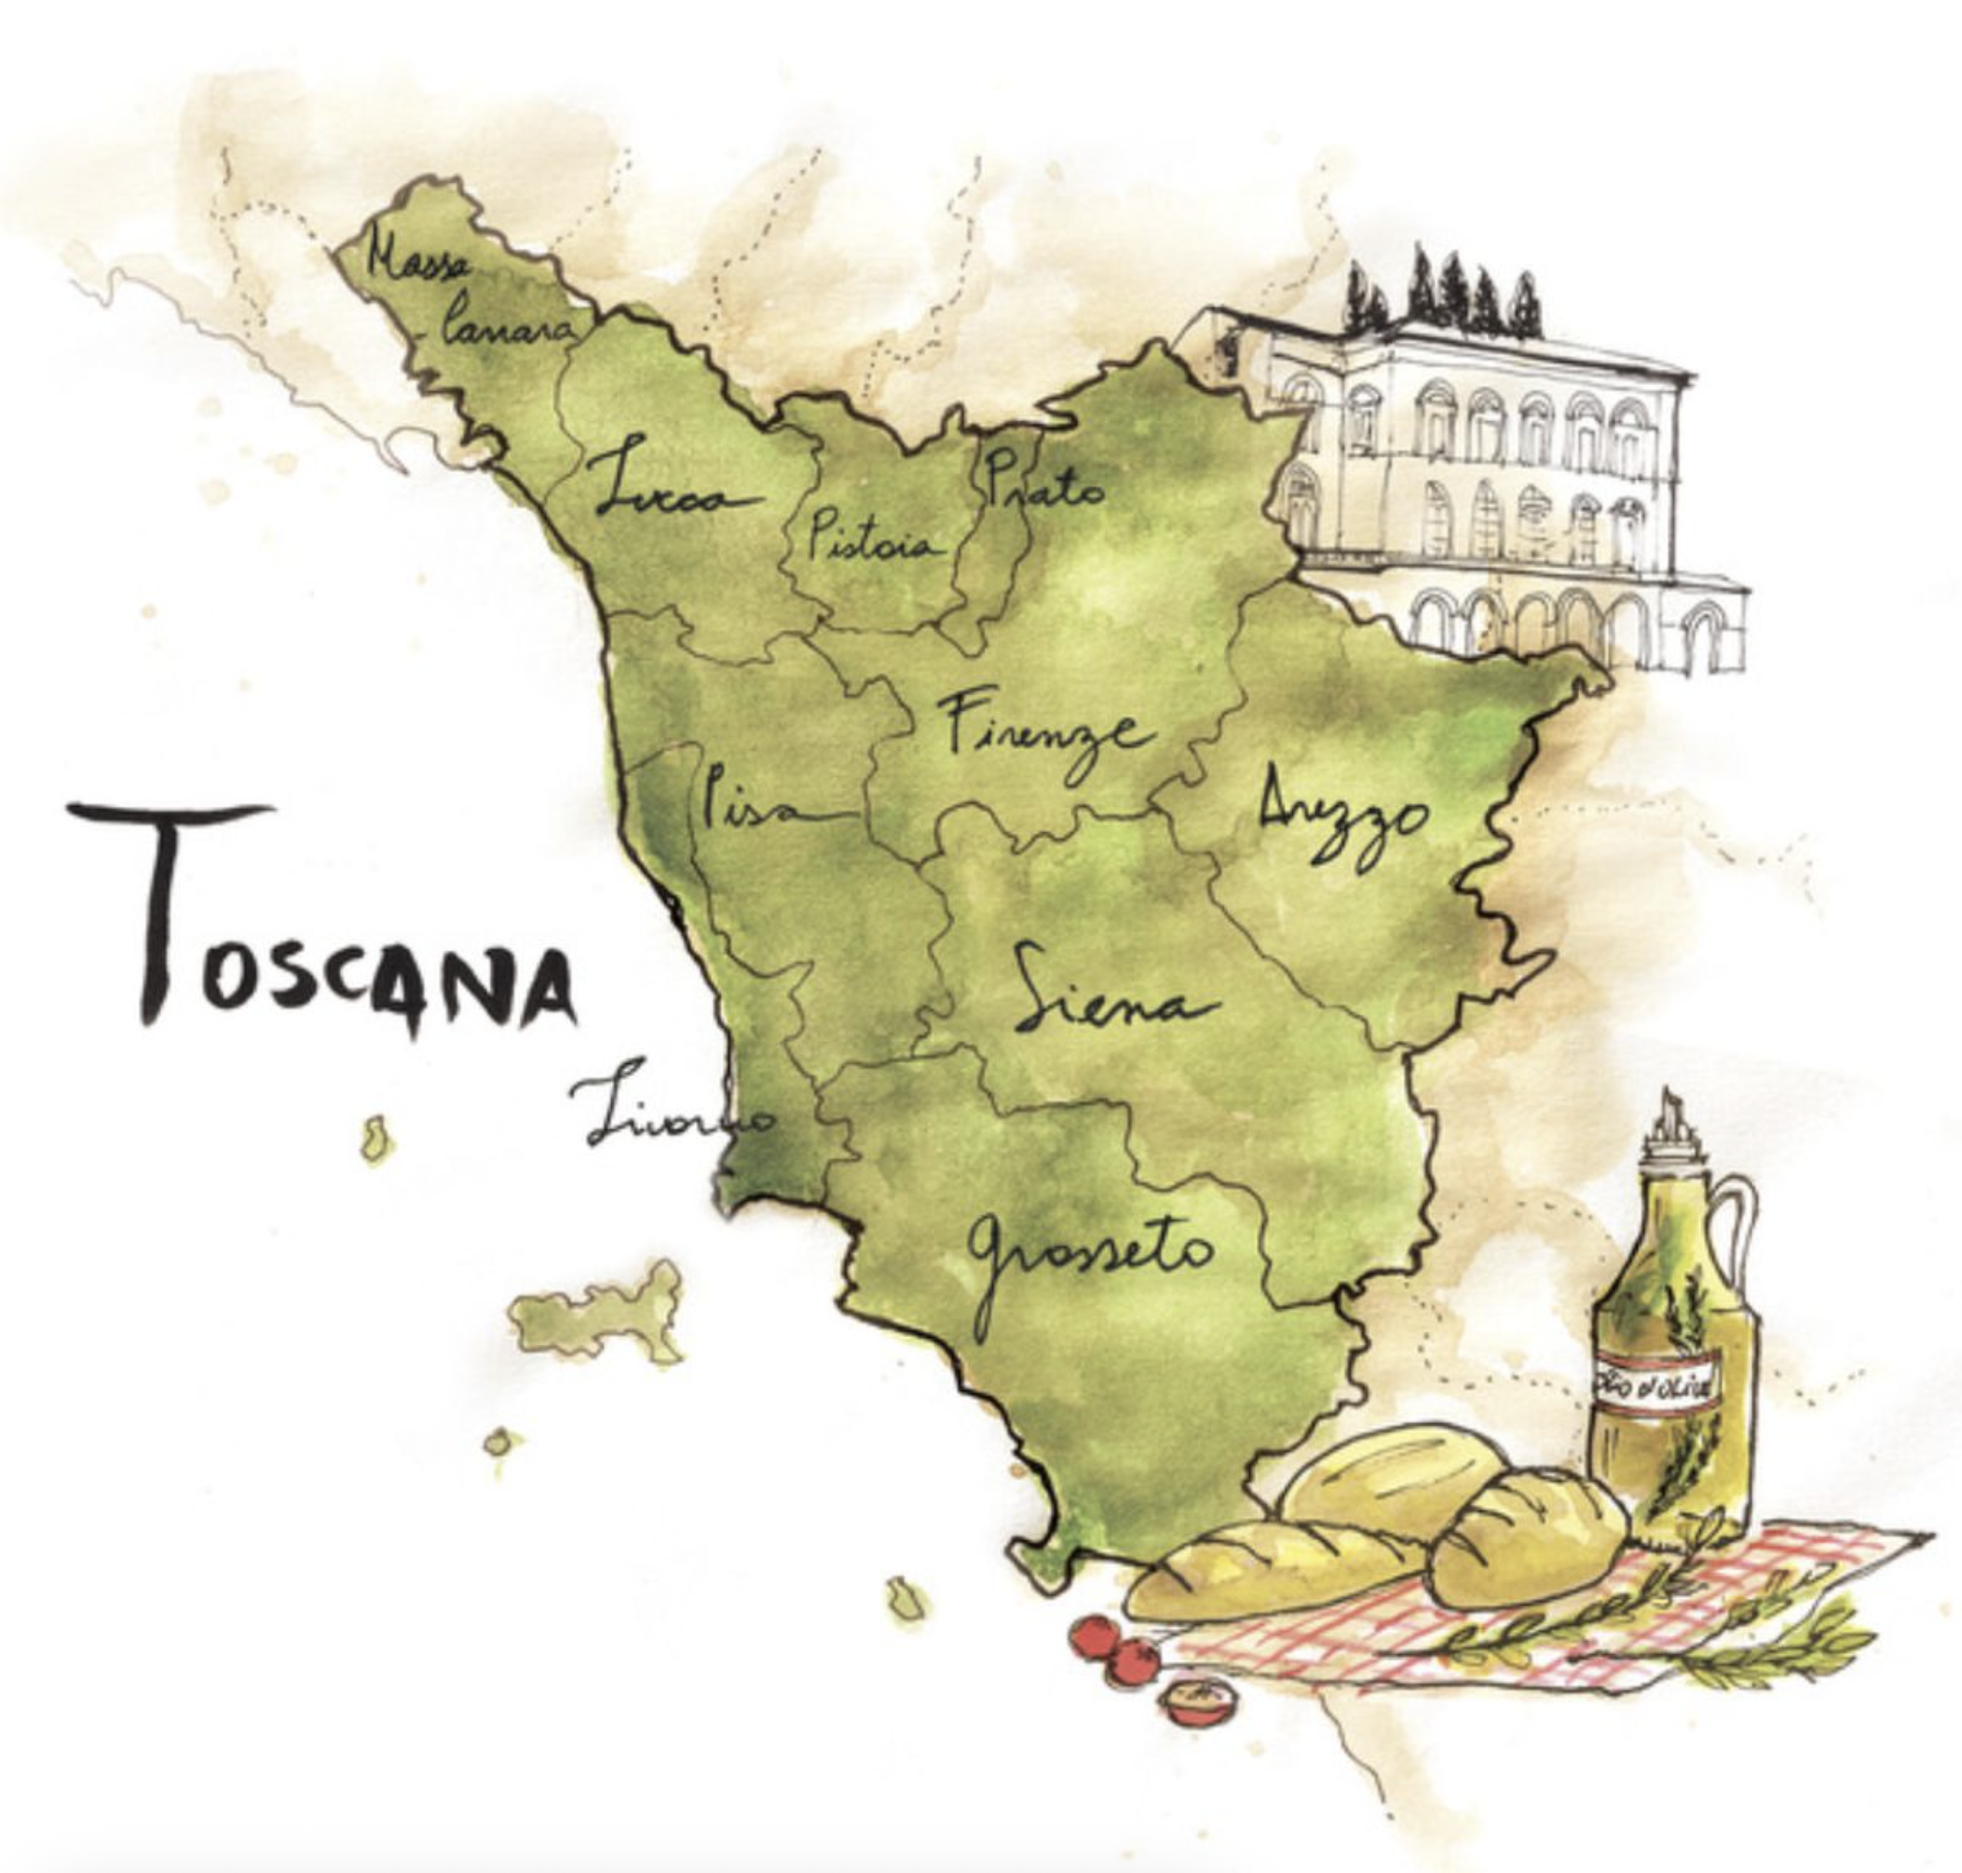
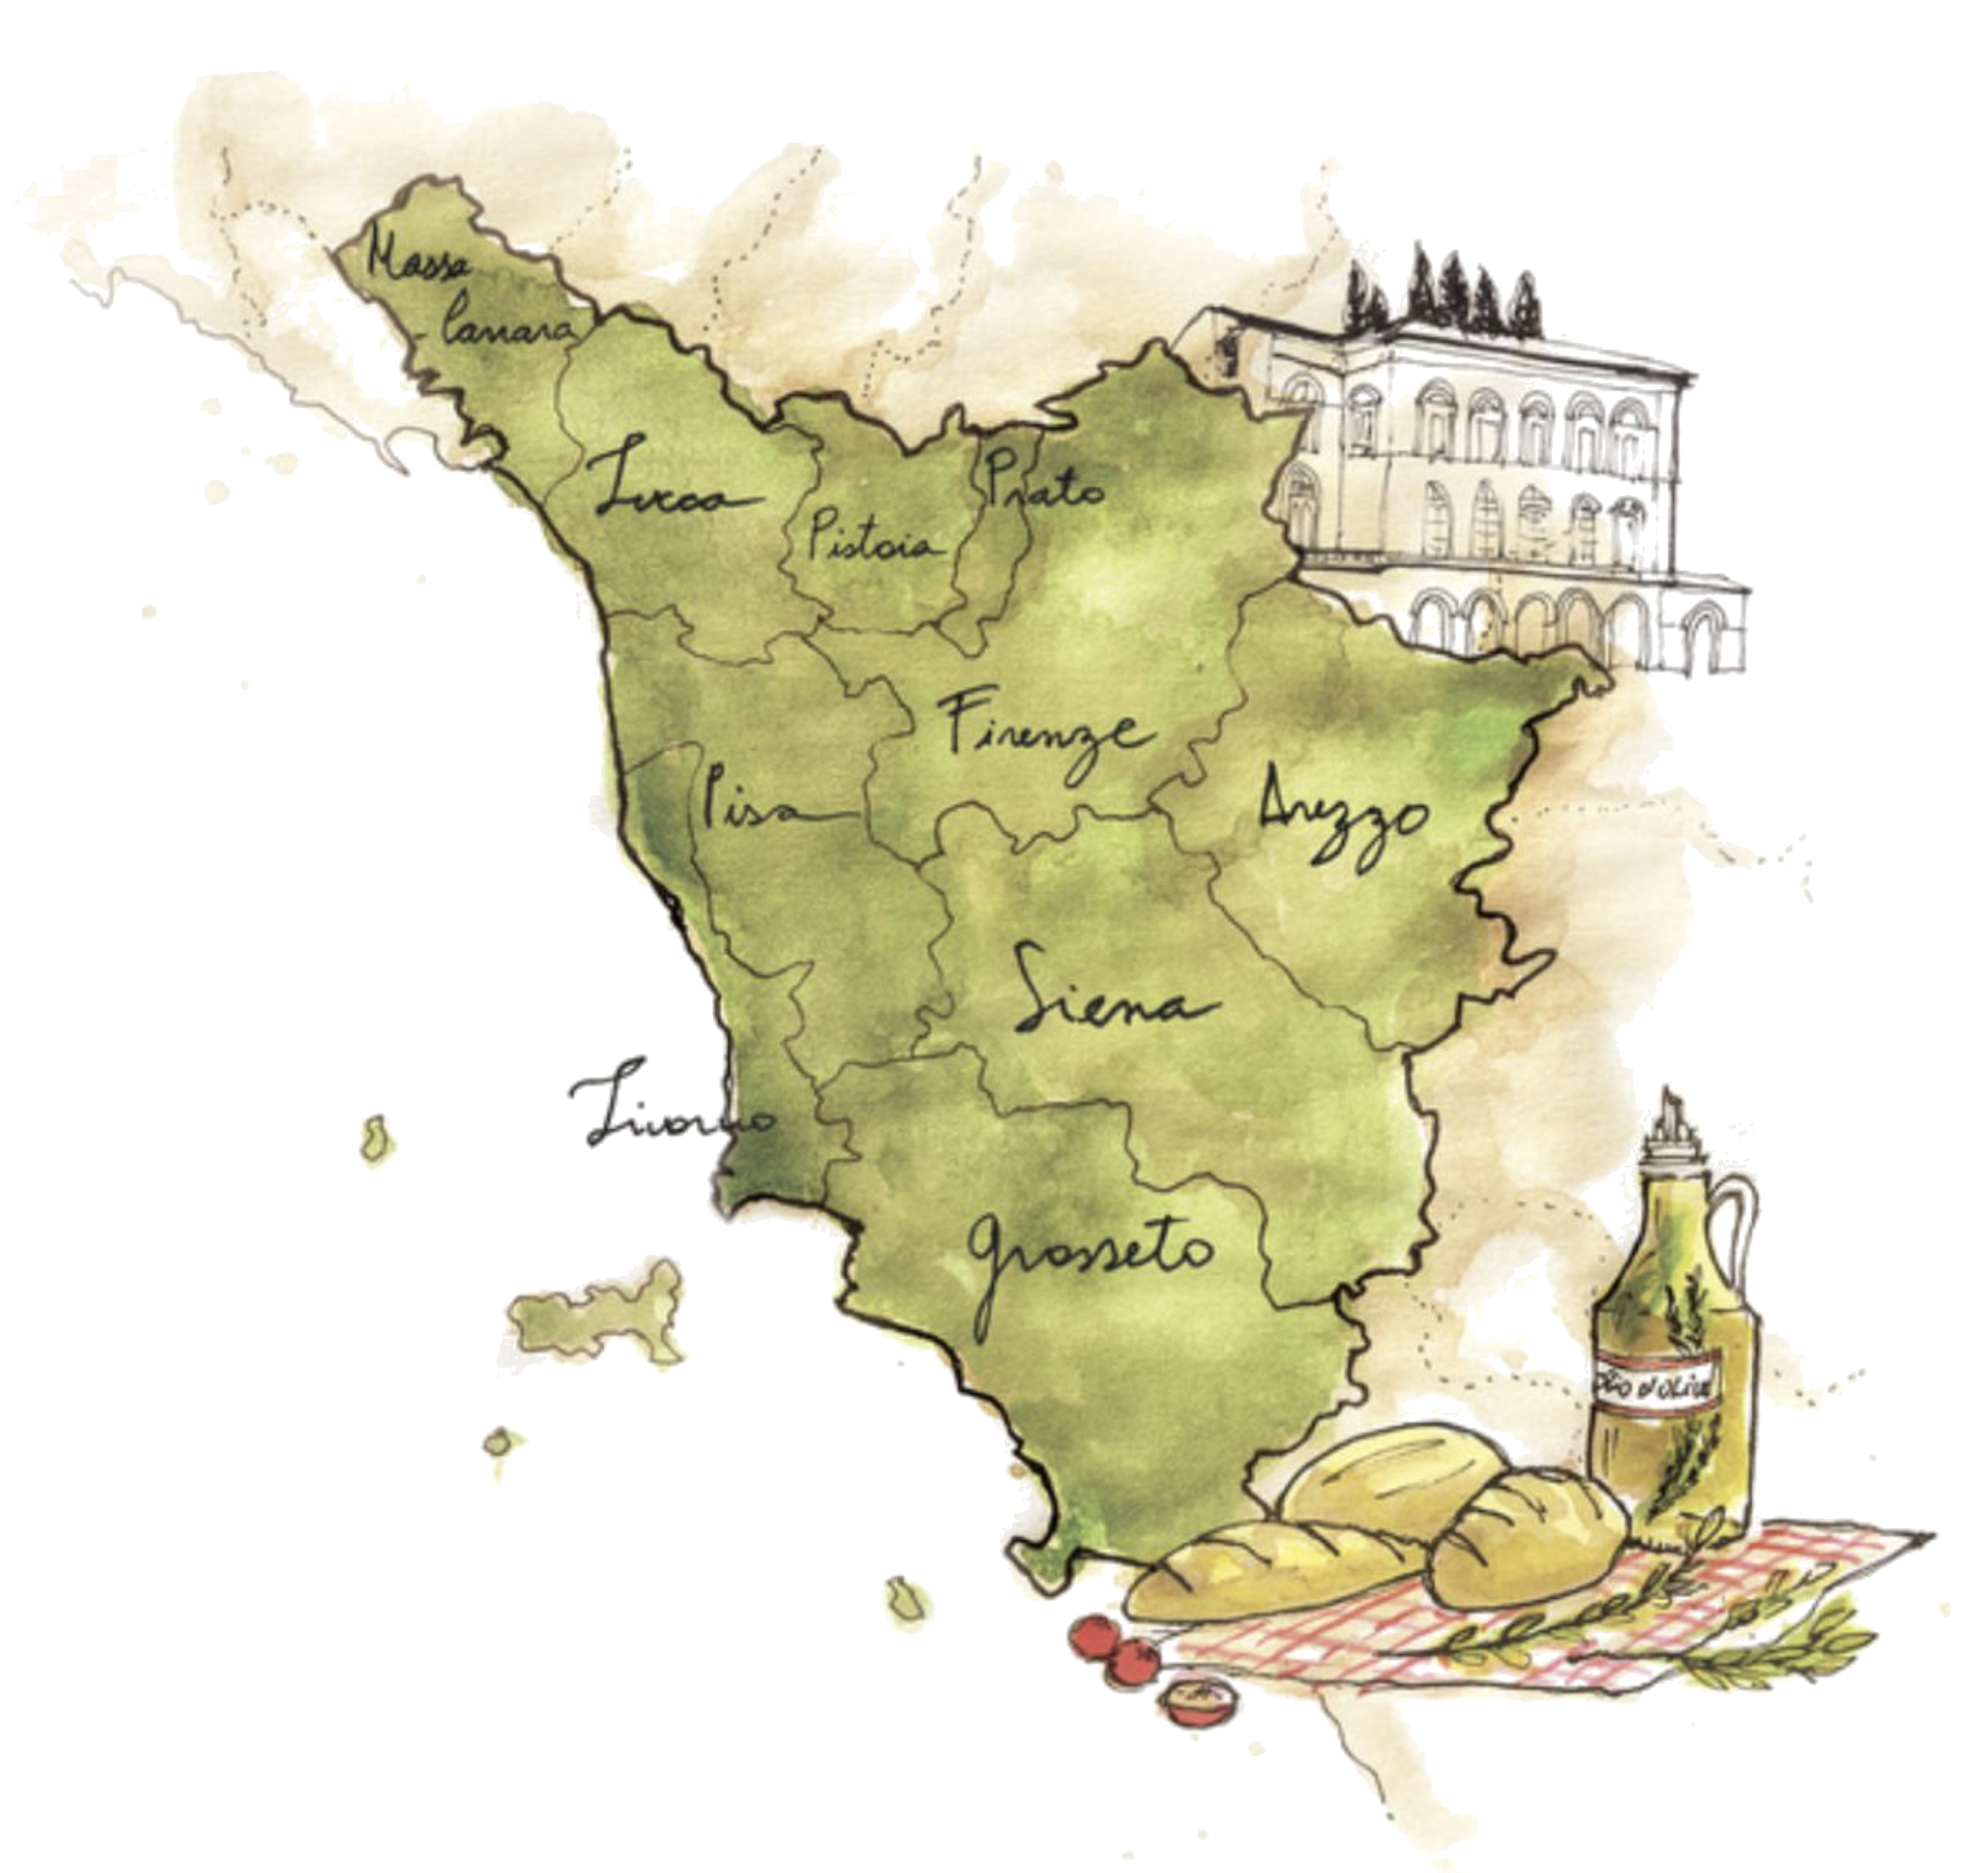
checkpoint

Changed region(s): [[0.0309, 0.4318, 0.3086, 0.5552]]

diff --git a/src/components/Boerum.tsx b/src/components/Boerum.tsx
@@ -204,7 +204,7 @@ const Boerum: React.FC = () => {
               </ul>
             </div>
             <div className="boerum-map">
-              <img src="/assets/watercolor-tuscany.png" alt="Tuscany map" className="boerum-map-image" />
+              <img src="/assets/watercolor-tuscany-2.png" alt="Tuscany map" className="boerum-map-image" />
             </div>
           </div>
         </div>
